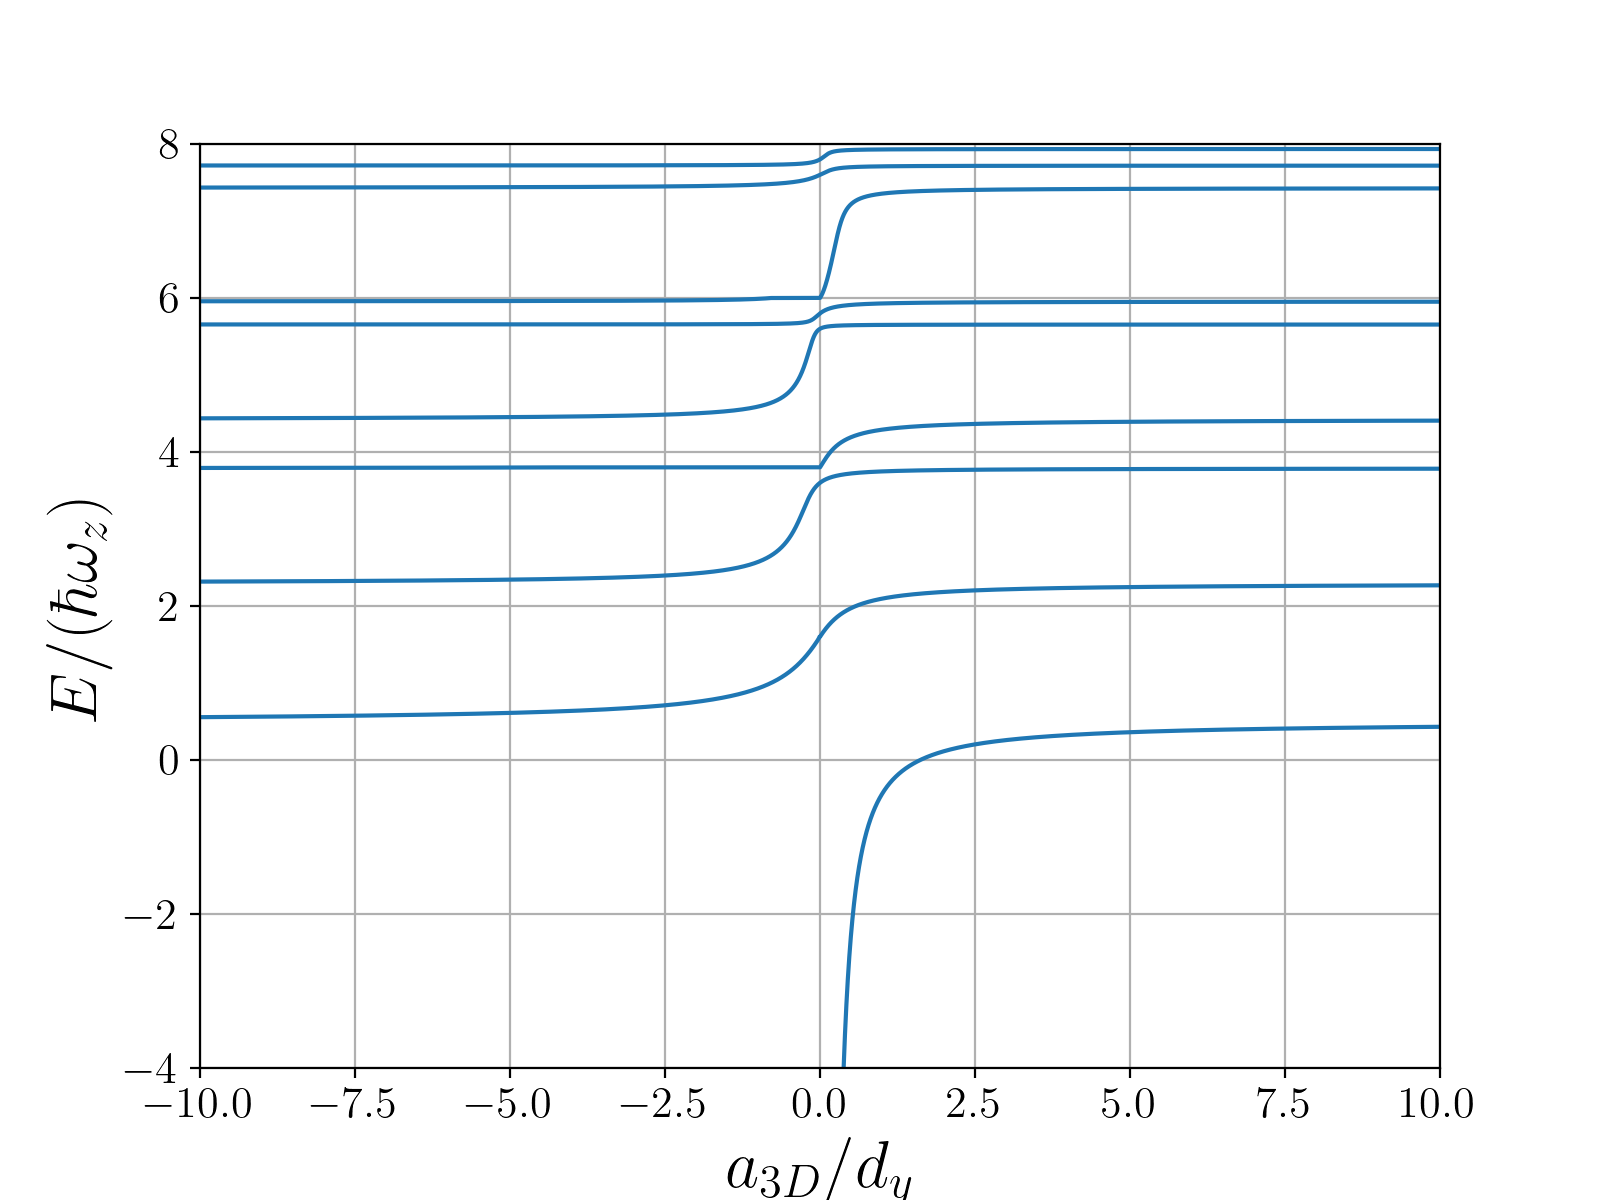
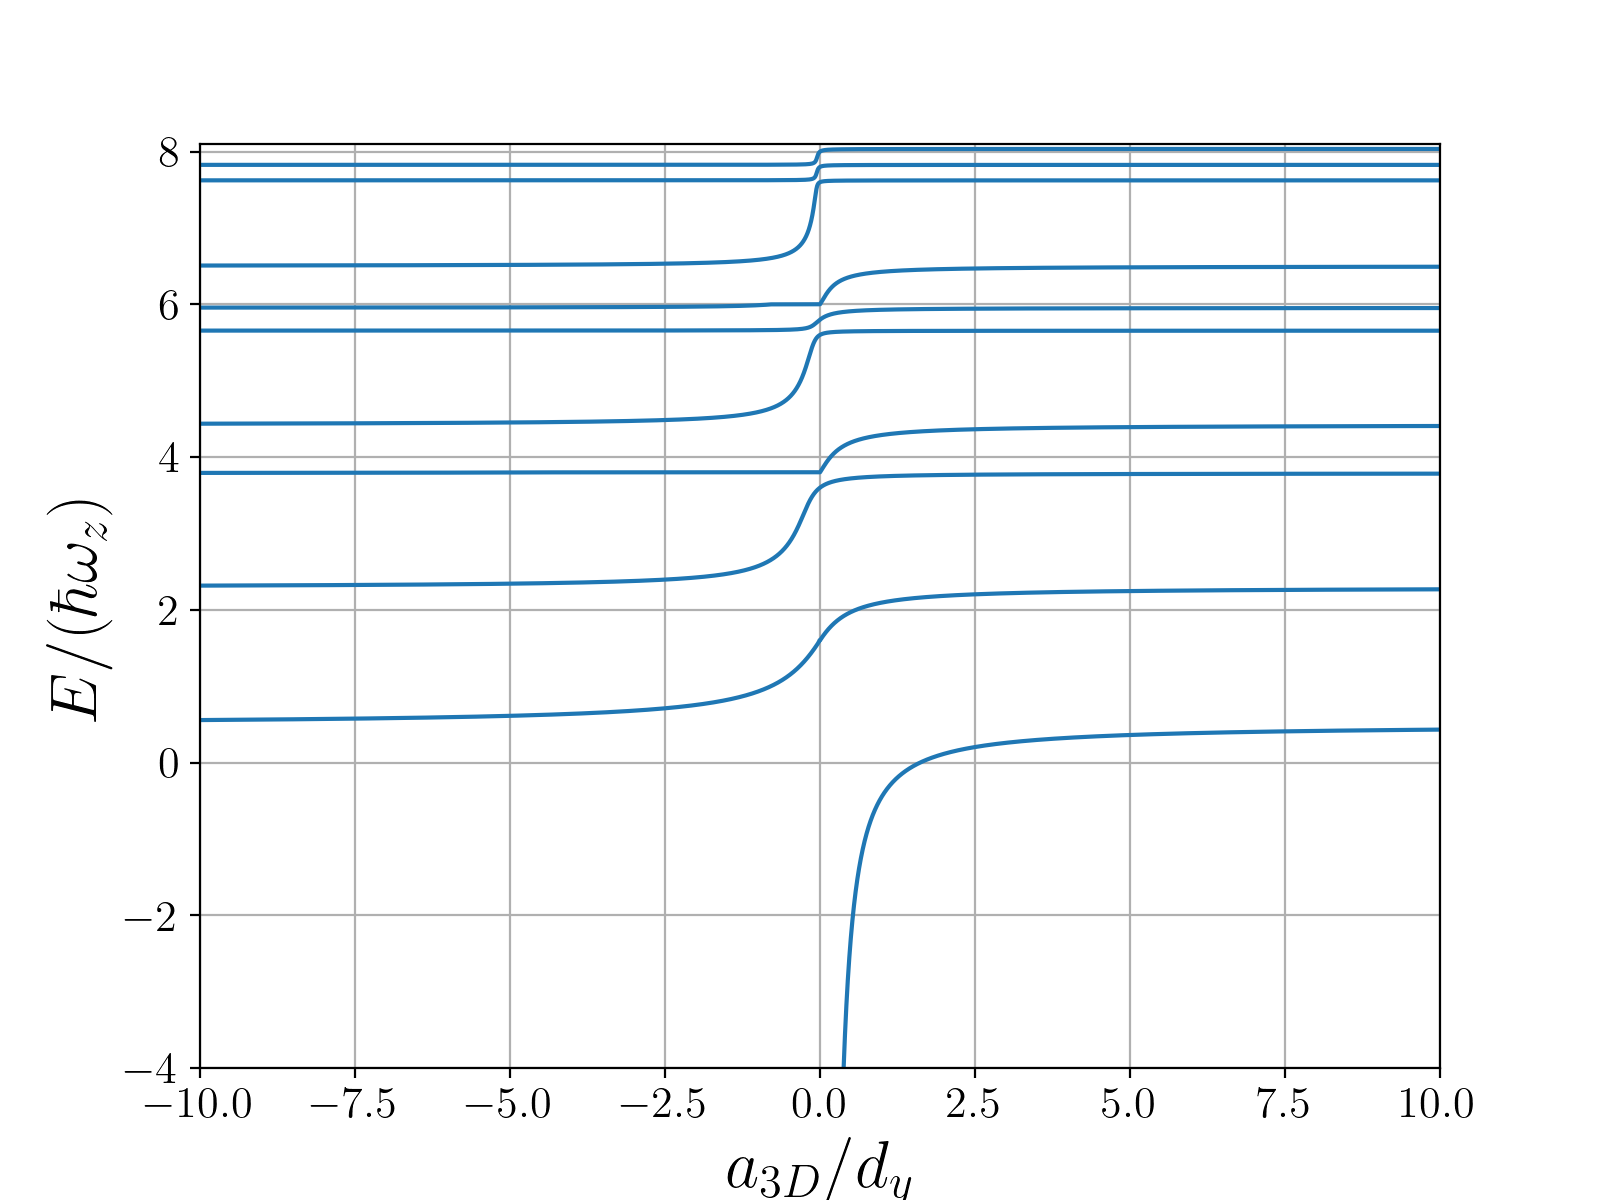
Classes Completed

diff --git a/ICIR_Theory/General_Solution/main_CZ.py b/ICIR_Theory/General_Solution/main_CZ.py
@@ -2,8 +2,7 @@ __author__ = "Tomás Sánchez Sánchez-Pastor"
 __date__   = "01/10/2021"
 import numpy as np
 import matplotlib.pyplot as plt
-from math import pi, sqrt, isnan
-from input_Chen_Zhang_2020 import eta_x, eta_y, nx, ny
+from math import pi, sqrt
 from Integration import Integral
 from Solution_Class import J3D_funs
 from Trap_Class import Trap
@@ -16,17 +15,45 @@ plt.rcParams['ytick.labelsize']=ref_ticksize
 plt.rcParams['axes.labelsize']=ref_ticksize * 3/2
 plt.rcParams['axes.titlesize']=ref_ticksize * 3/2
 
+def separate_levels(A, E):
+    '''
+    Parameters
+    ----------
+    - A: x-axis (usually a3D)
+    - E: y-axis (usually the energy)
+
+    Returns
+    -------
+    - dic: dictionary that contains each level separately denoted by the key "a3D_n{level}" and "E_n{level}"
+    - level: last level separated
+    '''
+    dic = {}
+    count = 0
+    level = 0
+    for i in range(len(E)-1):
+        if np.sign(A[i]) != np.sign(A[i+1]) and A[i] > abs(2):
+            level+=1
+            dic[f'a3D_n{level}'] = A[i-count:i+1]
+            dic[f'E_n{level}']   = E[i-count:i+1]
+            count = 0
+        elif np.sign(A[i]) == np.sign(A[i+1]):
+            count += 1
+    dic[f'a3D_n{level+1}'] = A[i-count+1:i+2]
+    dic[f'E_n{level+1}']   = E[i-count+1:i+2]
+    return dic, level
+
 if __name__ == '__main__':
 	Trap = Trap()
 	E  = np.linspace(-7.5, 13, num=1000)
+	J3D_init = J3D_funs(nx=100, ny=100)
 
 	print(f'''
 	         Parameters
 	      ----------------
 	      etax:    {Trap.eta_x}
 	      etay:    {Trap.eta_y}
-	      nx:      {nx}    
-	      ny:      {ny} 
+	      nx:      {J3D_init.nx}    
+	      ny:      {J3D_init.ny} 
 	      Eo:      {Trap.Eo}
 	      E:       {E[0]}-{E[-1]}
 	''')
@@ -35,8 +62,8 @@ if __name__ == '__main__':
 	a3D = []
 	for e in E:
 		# Initialize J3D
-		I3D = Integral().int(lambda x: J3D.I3D(Trap.eta_x, Trap.eta_y, nx, ny, E, x), 100, e, Trap.Eo)
-		J3D = sqrt(2)*4*pi*(W3D + I3D)
+		I3D = Integral().int(lambda x: J3D_init.I3D(Trap.eta_x, Trap.eta_y, e, x), 100, e, Trap.Eo)
+		J3D = sqrt(2)*4*pi*(J3D_init.W3D(Trap.eta_x, Trap.eta_y, e) + I3D)
 		a3D.append(1/J3D)
 	
 	# Figure

diff --git a/ICIR_Theory/General_Solution/Solution_Class.py b/ICIR_Theory/General_Solution/Solution_Class.py
@@ -2,6 +2,7 @@ __author__ = "Tomás Sánchez Sánchez-Pastor"
 __date__   = "01/10/2021"
 import sys
 import numpy as np
+from numpy import sqrt
 from math import pi
 from scipy.special import gamma, hyp2f1
 from input_Chen_Zhang_2020 import eta_x, eta_y, nx, ny
@@ -32,18 +33,34 @@ class J3D_funs:
 	· W3D(nx, ny, etax, etay, E): part of J3D
 	· I3D(etax, etay, nx, ny, E, beta): int(A3D, 0, +oo) + sumation
 	'''
-	def __init__(self):
-		pass
+	def __init__(self, nx, ny):
+		self.nx = nx
+		self.ny = ny
 
-	def A3D(self, eta_x, eta_y):
-		out = -np.exp(self.beta*self.E) * np.sqrt(eta_x*eta_y/((4*pi)**3*np.sinh(eta_x*self.beta)*np.sinh(eta_y*self.beta)*np.sinh(self.beta)))\
-        + 1/(4*pi*self.beta)**(3/2)
+	def en(self, n, eta):
+		return eta*(n + 1/2)
+
+	def A3D(self, eta_x, eta_y, E, beta):
+		out = -np.exp(beta*E) * np.sqrt(eta_x*eta_y/((4*pi)**3*np.sinh(eta_x*beta)*np.sinh(eta_y*beta)*np.sinh(beta)))\
+        + 1/(4*pi*beta)**(3/2)
 		return out
 
-	def W3D(self, nx, ny, etax, etay, E):
-		pass
+	def W3D(self, etax, etay, E):
+		suma = 0
+		for i in range(0, self.nx+1):
+			for j in range(0, self.ny+1):
+				if i%2 == 0 and j%2 == 0 and self.en(i, etax) + self.en(j, etay) + 1/2 <= E:
+					suma += 2**(i + j - 1)*gamma(1/4 - (E - self.en(i, etax) - self.en(j, etay))/2)/ \
+					(gamma((1-i)/2)**2 * gamma((1-j)/2)**2 * gamma(1+i) * gamma(1+j) * \
+					gamma(3/4 - (E - self.en(i, etax) - self.en(j, etay))/2))
+		return -pi/2 * sqrt(etax*etay/2) * suma
 
-	def I3D(self, nx, ny, etax, etay, E):
-		pass
-
-
+	def I3D(self, etax, etay, E, beta):
+		suma = 0
+		for i in range(0, self.nx+1, 2):
+			for j in range(0, self.ny+1, 2):
+				if self.en(i, etax) + self.en(j, etay) + 1/2 <= E:
+					suma += 2**(i+j-1/2)*np.exp(beta*(E - etax - etay))/ \
+					(gamma((1-i)/2)**2 * gamma((1-j)/2)**2 * gamma(1+i) * gamma(1+j))
+		out = sqrt(pi*etax*etay/(8*np.sinh(beta))) * suma
+		return self.A3D(etax, etay, E, beta) + out

diff --git a/ICIR_Theory/General_Solution/input_Chen_Zhang_2020.py b/ICIR_Theory/General_Solution/input_Chen_Zhang_2020.py
@@ -1,4 +1,4 @@
-__author__ = "Tomás Sánchez-Pastor"
+__author__ = "Tomás Sánchez Sánchez-Pastor"
 __date__ = "20 de Julio de 2021"
 # Parameters:
 eta_x  = 1 # wx/wy
